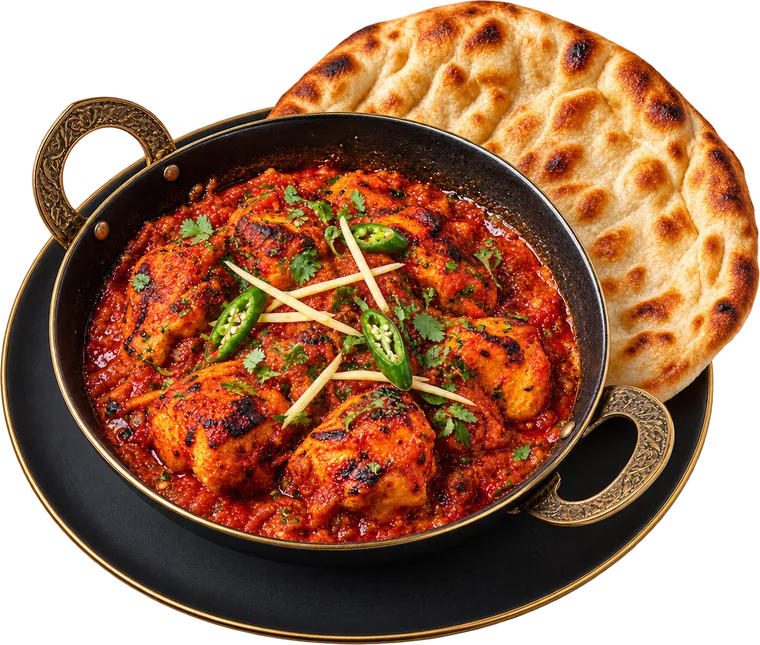
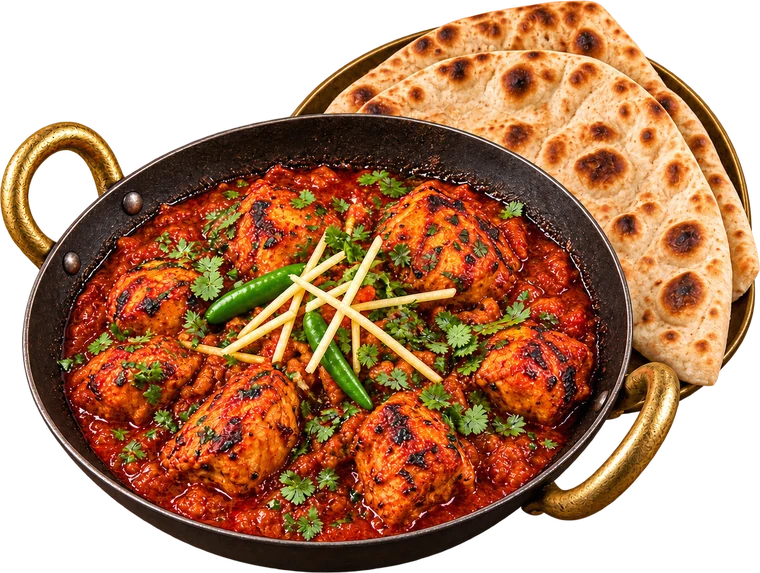
Photos HD pour 14 plats et boissons, naans et boissons en cartes
- Nouvelles photos détourées (entrées, mijotés, karahi, frites, naans, boissons)
- Catégories Naans & soupe et Boissons affichées en cartes avec photo
- Emblème à la place de la photo pour les plats qui n'en ont pas encore

Claude-Session: https://claude.ai/code/session_017WVysqERD8GsLfZDzdbQ6X

diff --git a/js/data.js b/js/data.js
@@ -49,11 +49,11 @@ export const MENU = [
     items: [
       { nom: 'Naan fromage + 4 pièces poulet tikka', prix: 6, img: P + 'naan-tikka.webp' },
       { nom: 'Seekh kebab (2 pièces)', prix: 4, img: P + 'seekh-kebab.webp' },
-      { nom: 'Samossa (2 pièces)', prix: 3, img: P + 'samossa.jpg' },
-      { nom: 'Schante samossa (2 pièces)', prix: 4, img: P + 'schante-samossa.jpg' },
+      { nom: 'Samossa (2 pièces)', prix: 3, img: P + 'samossa.webp' },
+      { nom: 'Schante samossa (2 pièces)', prix: 4, img: P + 'schante-samossa.webp' },
       { nom: 'Poulet tandoori', prix: 3, img: P + 'poulet-tandoori.webp' },
-      { nom: 'Poulet tikka (4 pièces)', prix: 4, img: P + 'poulet-tikka.jpg' },
-      { nom: 'Sandwich chapli kebab', prix: 5, img: P + 'sandwich-chapli.jpg' },
+      { nom: 'Poulet tikka (4 pièces)', prix: 4, img: P + 'poulet-tikka.webp' },
+      { nom: 'Sandwich chapli kebab', prix: 5, img: P + 'sandwich-chapli.webp' },
     ],
   },
   {
@@ -65,14 +65,14 @@ export const MENU = [
       { nom: 'Kofta + naan', prix: 8, img: P + 'kofta.webp' },
       { nom: 'Poulet korma + naan', prix: 8, img: P + 'poulet-korma.jpg' },
       { nom: 'Veau kurma + naan', prix: 12, img: P + 'veau-kurma.webp' },
-      { nom: 'Depiaza + naan', prix: 12, img: P + 'depiaza.jpg' },
+      { nom: 'Depiaza + naan', prix: 12, img: P + 'depiaza.webp' },
       { nom: 'Foie de bœuf + naan', prix: 8, img: P + 'foie.webp' },
       { nom: 'Épinards + naan', prix: 8, img: P + 'epinards.jpg' },
       { nom: 'Bamia + naan', prix: 8, img: P + 'bamia.webp' },
       { nom: 'Chou-fleur + naan', prix: 8, img: P + 'chou-fleur.webp' },
       { nom: 'Haricots rouges + naan', prix: 8, img: P + 'haricots.webp' },
       { nom: 'Pois chiches + naan', prix: 8, img: P + 'pois-chiches.webp' },
-      { nom: 'Lentilles + naan', prix: 8, img: P + 'lentilles.jpg' },
+      { nom: 'Lentilles + naan', prix: 8, img: P + 'lentilles.webp' },
       { nom: 'Riz avec sauce au choix', prix: 8, img: P + 'riz-sauce.webp' },
       { nom: 'Riz blanc', prix: 4, img: P + 'riz-blanc.webp' },
     ],
@@ -80,7 +80,7 @@ export const MENU = [
   {
     id: 'karahi', nom: 'Karahi', titre: 'Karahi', note: 'Servis avec naan',
     items: [
-      { nom: 'Karahi poulet + naan', prix: 25, img: P + 'karahi-poulet.jpg' },
+      { nom: 'Karahi poulet + naan', prix: 25, img: P + 'karahi-poulet.webp' },
       { nom: 'Karahi agneau + naan', prix: 35, img: P + 'karahi-agneau.webp' },
       { nom: 'Karahi poulet tikka + naan', prix: 30, img: P + 'karahi-tikka.webp' },
     ],
@@ -90,28 +90,28 @@ export const MENU = [
     items: [
       { nom: '10 wings + frites & boisson 33cl', prix: 8.5, img: P + 'wings-10.webp' },
       { nom: '15 wings', prix: 7, img: P + 'wings-15.webp' },
-      { nom: 'Barquette de frites', prix: 2.5, img: P + 'frites.jpg' },
+      { nom: 'Barquette de frites', prix: 2.5, img: P + 'frites.webp' },
     ],
   },
   {
-    id: 'naans', nom: 'Naans & soupe', titre: 'Naans & soupe', liste: true, photo: P + 'naans-soupe.jpg',
+    id: 'naans', nom: 'Naans & soupe', titre: 'Naans & soupe',
     items: [
       { nom: 'Bolani', prix: 2, img: P + 'bolani.webp' },
-      { nom: 'Afghani naan', prix: 1.5 },
+      { nom: 'Afghani naan', prix: 1.5, img: P + 'afghani-naan.webp' },
       { nom: 'Naan nature', prix: 1 },
       { nom: 'Naan fromage', prix: 2.5, img: P + 'naan-fromage.webp' },
-      { nom: 'Afghani soupe', prix: 5 },
+      { nom: 'Afghani soupe', prix: 5, img: P + 'soupe.webp' },
     ],
   },
   {
-    id: 'boissons', nom: 'Boissons', titre: 'Les boissons', liste: true, photo: P + 'boissons.jpg',
+    id: 'boissons', nom: 'Boissons', titre: 'Les boissons',
     items: [
-      { nom: 'Lassi mangue', prix: 3 },
+      { nom: 'Lassi mangue', prix: 3, img: P + 'lassi.jpg' },
       { nom: 'Thé, café', prix: 1.5 },
-      { nom: 'Boissons 33cl', prix: 1.5, desc: 'Coca, Fanta…' },
-      { nom: 'Boissons 1,5L', prix: 3, desc: 'Coca, Fanta…' },
+      { nom: 'Boissons 33cl', prix: 1.5, img: P + 'boissons-33cl.webp', desc: 'Coca, Fanta…' },
+      { nom: 'Boissons 1,5L', prix: 3, img: P + 'boissons-15l.webp', desc: 'Coca, Fanta…' },
       { nom: 'Bouteille d’eau 50cl', prix: 1 },
-      { nom: 'Bouteille d’eau 1,5L', prix: 2 },
+      { nom: 'Bouteille d’eau 1,5L', prix: 2, img: P + 'eau-15l.webp' },
     ],
   },
 ];

diff --git a/js/app.js b/js/app.js
@@ -55,7 +55,7 @@ $('#annee').textContent = new Date().getFullYear();
 
 // ───────── ruban ─────────
 {
-  const noms = MENU.filter(c => !c.liste).flatMap(c => c.items.map(it => it.nom.replace(/ \+.*$| \(.*$| \/.*$/g, '')));
+  const noms = MENU.filter(c => c.id !== 'boissons').flatMap(c => c.items.map(it => it.nom.replace(/ \+.*$| \(.*$| \/.*$/g, '')));
   const uniques = [...new Set(noms)].filter(n => n.length < 22 && !/^\d/.test(n));
   const bloc = uniques.map(n => `<span>${esc(n)}</span><i>✦</i>`).join('');
   $('#ruban').innerHTML = bloc + bloc;
@@ -198,9 +198,9 @@ MENU.forEach(cat => {
   } else {
     const grille = el('div', 'en-grille');
     cat.items.forEach(it => {
-      const c = el('article', 'plat rv ' + (detoure(it) ? 'detoure' : 'photo'), `
+      const c = el('article', 'plat rv ' + (!it.img ? 'sans-photo' : detoure(it) ? 'detoure' : 'photo'), `
         <button class="ouvrir" type="button" aria-label="Voir ${esc(it.nom)}">
-          <span class="visuel"><img src="${it.img}" alt="" loading="lazy"></span>
+          <span class="visuel"><img src="${it.img || 'assets/img/tour.svg'}" alt="" loading="lazy"></span>
           ${it.badge ? `<span class="badge">${esc(it.badge)}</span>` : ''}
           <span class="nom">${esc(it.nom)}</span>
           ${it.desc ? `<span class="desc">${esc(it.desc)}</span>` : ''}

diff --git a/css/style.css b/css/style.css
@@ -199,6 +199,7 @@ h2 { font: 600 clamp(1.9rem, 5vw, 3.3rem)/1.1 var(--titre); letter-spacing: .06e
 .visuel img { position: absolute; inset: 0; width: 100%; height: 100%; transition: transform .5s cubic-bezier(.2, .8, .2, 1); }
 .detoure .visuel img { object-fit: contain; filter: drop-shadow(0 16px 16px rgba(0, 0, 0, .5)); }
 .detoure:hover .visuel img { transform: scale(1.08) rotate(-3deg); }
+.sans-photo .visuel img { object-fit: contain; padding: 14%; opacity: .28; }
 .photo .visuel { overflow: hidden; }
 .photo .visuel img { object-fit: cover; }
 .photo:hover .visuel img { transform: scale(1.07); }

diff --git a/README.md b/README.md
@@ -36,8 +36,8 @@ Dès qu'un champ de `CONFIG` est rempli, le site s'adapte tout seul : bouton « 
 itinéraire et plan Google Maps, tableau des horaires avec l'indication « Ouvert / Fermé »,
 envoi de la sélection par WhatsApp, liens vers les réseaux.
 
-Les photos en `.webp` sont détourées (fond transparent). Celles en `.jpg` viennent du menu PDF
-et ont été agrandies par IA pour être nettes : à remplacer par les vraies photos HD quand elles existent.
+Les photos en `.webp` sont détourées (fond transparent). Les quelques `.jpg` restants viennent du menu PDF,
+agrandis par IA : à remplacer par les vraies photos HD quand elles existent.
 
 ## État actuel — à savoir
 
